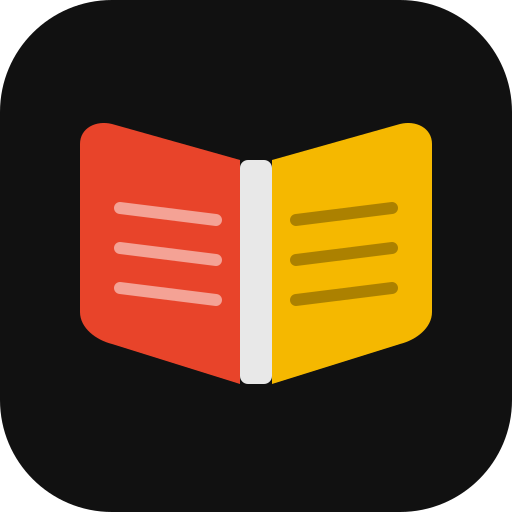
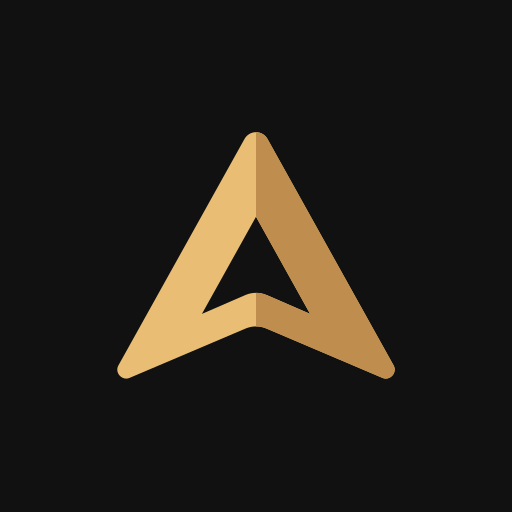
Refresh AfroBooks branding and add iOS installation guidance

diff --git a/app/page.tsx b/app/page.tsx
@@ -3,6 +3,7 @@
 import { useEffect } from 'react';
 import { useRouter } from 'next/navigation';
 import Link from 'next/link';
+import Image from 'next/image';
 import { BookOpen, Feather, Star, Users, Zap, ArrowRight, CheckCircle, Search, Mail, MapPin, Twitter, Instagram, Linkedin, Facebook, Heart } from 'lucide-react';
 import Logo from '@/components/shared/Logo';
 import { useAuthStore } from '@/store/authStore';
@@ -44,12 +45,12 @@ export default function LandingPage() {
             Browse
           </Link>
           <Link href="/login"
-            className="text-sm px-4 py-2 rounded-lg transition-colors"
+            className="text-xs px-2 py-2 rounded-lg transition-colors sm:text-sm sm:px-4"
             style={{ color: '#888' }}>
             Sign In
           </Link>
           <Link href="/signup"
-            className="text-sm px-4 py-2 rounded-lg font-semibold transition-all"
+            className="text-xs px-3 py-2 rounded-lg font-semibold transition-all sm:text-sm sm:px-4"
             style={{ background: '#e8442a', color: '#fff' }}>
             Get Started
           </Link>
@@ -288,75 +289,76 @@ export default function LandingPage() {
       </section>
 
       {/* ── ABOUT & CONTACT ── */}
-      <section id="about" className="px-5 sm:px-10 py-20" style={{ borderTop: '1px solid #1a1a1a' }}>
+      <section id="about" aria-labelledby="about-title" className="scroll-mt-16 px-5 sm:px-10 py-20" style={{ background: '#101110', borderTop: '1px solid #28251f' }}>
         <div className="max-w-5xl mx-auto grid sm:grid-cols-2 gap-12 items-start">
 
           {/* About */}
           <div>
-            <p className="text-xs font-bold uppercase tracking-widest mb-3" style={{ color: '#e8442a' }}>About Us</p>
-            <h2 className="font-display text-3xl text-white mb-5 leading-tight">
+            <div className="flex min-h-8 items-center gap-2.5 mb-3">
+              <Image src="/brand/afrobooks-mark.svg" alt="" width={28} height={28} aria-hidden="true" />
+              <p className="text-xs font-semibold uppercase tracking-[0.16em] text-[#e9bd73]">About Us</p>
+            </div>
+            <h2 id="about-title" className="font-display text-3xl text-[#f5f2eb] mb-5 leading-tight">
               Built for Africa's<br />Literary Future
             </h2>
-            <p className="text-sm leading-relaxed mb-4" style={{ color: '#666' }}>
+            <p className="text-sm leading-relaxed mb-4" style={{ color: '#a8a49c' }}>
               AfroBooks is a digital marketplace dedicated to African storytelling. We believe every African story deserves a global audience — and every African author deserves fair compensation for their craft.
             </p>
-            <p className="text-sm leading-relaxed mb-6" style={{ color: '#555' }}>
+            <p className="text-sm leading-relaxed mb-6" style={{ color: '#96928a' }}>
               Founded with a mission to bridge the gap between Africa's brilliant writers and a world hungry for authentic African narratives, we provide authors with the tools, platform, and audience they need to thrive.
             </p>
-            <div className="flex items-center gap-2 text-sm" style={{ color: '#888' }}>
-              <Heart size={13} style={{ color: '#e8442a' }} />
+            <div className="flex items-center gap-2 text-sm" style={{ color: '#b9ad98' }}>
+              <Heart size={14} strokeWidth={1.75} className="shrink-0 text-[#e9bd73]" aria-hidden="true" />
               Made with love for African literature
             </div>
           </div>
 
           {/* Contact */}
           <div>
-            <p className="text-xs font-bold uppercase tracking-widest mb-3" style={{ color: '#f5b800' }}>Get In Touch</p>
-            <h2 className="font-display text-3xl text-white mb-5">Contact Us</h2>
+            <p className="flex min-h-8 items-center text-xs font-semibold uppercase tracking-[0.16em] mb-3 text-[#e9bd73]">Get In Touch</p>
+            <h2 className="font-display text-3xl text-[#f5f2eb] mb-5">Contact Us</h2>
 
             <div className="space-y-4 mb-8">
               <a
                 href="mailto:esseytesfa@gmail.com"
-                className="flex items-center gap-3 p-4 rounded-xl border transition-all hover:border-[#333] group"
-                style={{ background: '#111', borderColor: '#1a1a1a' }}
+                className="group flex items-center gap-3 p-4 rounded-xl border border-[#2b2821] bg-[#141412] transition-colors hover:border-[#745b37] hover:bg-[#191712] focus-visible:outline-[#e9bd73]"
               >
-                <div className="w-9 h-9 rounded-lg flex items-center justify-center flex-shrink-0" style={{ background: '#1a1a1a' }}>
-                  <Mail size={15} style={{ color: '#e8442a' }} />
+                <div className="w-9 h-9 rounded-lg flex items-center justify-center flex-shrink-0 border border-[#342c20] bg-[#231e16]">
+                  <Mail size={15} strokeWidth={1.75} className="text-[#e9bd73]" aria-hidden="true" />
                 </div>
                 <div>
-                  <p className="text-xs mb-0.5" style={{ color: '#555' }}>General enquiries</p>
-                  <p className="text-sm font-medium group-hover:text-white transition-colors" style={{ color: '#aaa' }}>esseytesfa@gmail.com</p>
+                  <p className="text-xs mb-0.5 text-[#96928a]">General enquiries</p>
+                  <p className="text-sm font-medium text-[#c9c4ba] group-hover:text-[#f5f2eb] transition-colors">esseytesfa@gmail.com</p>
                 </div>
               </a>
 
               <a
                 href="mailto:esseytesfa@gmail.com"
-                className="flex items-center gap-3 p-4 rounded-xl border transition-all hover:border-[#333] group"
-                style={{ background: '#111', borderColor: '#1a1a1a' }}
+                className="group flex items-center gap-3 p-4 rounded-xl border border-[#2b2821] bg-[#141412] transition-colors hover:border-[#745b37] hover:bg-[#191712] focus-visible:outline-[#e9bd73]"
               >
-                <div className="w-9 h-9 rounded-lg flex items-center justify-center flex-shrink-0" style={{ background: '#1a1a1a' }}>
-                  <Feather size={15} style={{ color: '#f5b800' }} />
+                <div className="w-9 h-9 rounded-lg flex items-center justify-center flex-shrink-0 border border-[#342c20] bg-[#231e16]">
+                  <Feather size={15} strokeWidth={1.75} className="text-[#e9bd73]" aria-hidden="true" />
                 </div>
                 <div>
-                  <p className="text-xs mb-0.5" style={{ color: '#555' }}>Author support</p>
-                  <p className="text-sm font-medium group-hover:text-white transition-colors" style={{ color: '#aaa' }}>esseytesfa@gmail.com</p>
+                  <p className="text-xs mb-0.5 text-[#96928a]">Author support</p>
+                  <p className="text-sm font-medium text-[#c9c4ba] group-hover:text-[#f5f2eb] transition-colors">esseytesfa@gmail.com</p>
                 </div>
               </a>
 
-              <div className="flex items-center gap-3 p-4 rounded-xl border" style={{ background: '#111', borderColor: '#1a1a1a' }}>
-                <div className="w-9 h-9 rounded-lg flex items-center justify-center flex-shrink-0" style={{ background: '#1a1a1a' }}>
-                  <MapPin size={15} style={{ color: '#888' }} />
+              <div className="flex items-center gap-3 p-4 rounded-xl border border-[#2b2821] bg-[#141412]">
+                <div className="w-9 h-9 rounded-lg flex items-center justify-center flex-shrink-0 border border-[#342c20] bg-[#231e16]">
+                  <MapPin size={15} strokeWidth={1.75} className="text-[#e9bd73]" aria-hidden="true" />
                 </div>
                 <div>
-                  <p className="text-xs mb-0.5" style={{ color: '#555' }}>Headquarters</p>
-                  <p className="text-sm" style={{ color: '#aaa' }}>United States of America</p>
+                  <p className="text-xs mb-0.5 text-[#96928a]">Headquarters</p>
+                  <p className="text-sm text-[#c9c4ba]">United States of America</p>
                 </div>
               </div>
             </div>
 
             {/* Social links */}
             <div>
-              <p className="text-xs mb-3" style={{ color: '#444' }}>Follow us</p>
+              <p className="text-xs mb-3 text-[#96928a]">Follow us</p>
               <div className="flex items-center gap-3">
                 {[
                   { icon: Facebook, href: 'https://facebook.com/AfroBooks', label: 'Facebook' },
@@ -368,10 +370,9 @@ export default function LandingPage() {
                     target="_blank"
                     rel="noopener noreferrer"
                     aria-label={label}
-                    className="w-9 h-9 rounded-xl flex items-center justify-center border transition-all hover:border-[#444] hover:text-white"
-                    style={{ background: '#111', borderColor: '#1a1a1a', color: '#555' }}
+                    className="w-11 h-11 rounded-xl flex items-center justify-center border border-[#2b2821] bg-[#141412] text-[#b9ad98] transition-colors hover:border-[#745b37] hover:text-[#e9bd73] focus-visible:outline-[#e9bd73]"
                   >
-                    <Icon size={15} />
+                    <Icon size={15} strokeWidth={1.75} aria-hidden="true" />
                   </a>
                 ))}
               </div>

diff --git a/components/shared/InstallPWA.tsx b/components/shared/InstallPWA.tsx
@@ -1,16 +1,36 @@
 'use client';
 
-import { useEffect, useState } from 'react';
-import { Download } from 'lucide-react';
+import { useEffect, useId, useRef, useState, useSyncExternalStore } from 'react';
+import { Download, Share, X } from 'lucide-react';
 
 interface BeforeInstallPromptEvent extends Event {
   prompt(): Promise<void>;
   userChoice: Promise<{ outcome: 'accepted' | 'dismissed' }>;
 }
 
+function subscribeDisplayMode(onChange: () => void) {
+  const standalone = window.matchMedia('(display-mode: standalone)');
+  standalone.addEventListener('change', onChange);
+  return () => standalone.removeEventListener('change', onChange);
+}
+
+function getInstallEnvironment() {
+  if (window.matchMedia('(display-mode: standalone)').matches ||
+      (navigator as Navigator & { standalone?: boolean }).standalone === true) return 'standalone';
+  return /iPad|iPhone|iPod/.test(navigator.userAgent) ||
+    (navigator.platform === 'MacIntel' && navigator.maxTouchPoints > 1) ? 'ios' : 'browser';
+}
+
 export default function InstallPWA() {
   const [prompt, setPrompt] = useState<BeforeInstallPromptEvent | null>(null);
   const [installed, setInstalled] = useState(false);
+  const environment = useSyncExternalStore(subscribeDisplayMode, getInstallEnvironment, () => 'browser');
+  const isIOS = environment === 'ios';
+  const [installing, setInstalling] = useState(false);
+  const guide = useRef<HTMLDialogElement>(null);
+  const guideId = useId();
+  const titleId = useId();
+  const descriptionId = useId();
 
   useEffect(() => {
     const handler = (e: Event) => {
@@ -26,25 +46,77 @@ export default function InstallPWA() {
     };
   }, []);
 
-  if (!prompt || installed) return null;
+  if (installed || environment === 'standalone' || (!isIOS && !prompt)) return null;
 
   async function handleInstall() {
+    if (isIOS) {
+      guide.current?.showModal();
+      return;
+    }
     if (!prompt) return;
-    await prompt.prompt();
-    const { outcome } = await prompt.userChoice;
-    if (outcome === 'accepted') setInstalled(true);
-    setPrompt(null);
+    setInstalling(true);
+    try {
+      await prompt.prompt();
+      const { outcome } = await prompt.userChoice;
+      if (outcome === 'accepted') setInstalled(true);
+    } catch {
+      // The browser can withdraw a previously offered installation prompt.
+    } finally {
+      setPrompt(null);
+      setInstalling(false);
+    }
   }
 
   return (
-    <button
-      type="button"
-      onClick={handleInstall}
-      className="flex items-center gap-1.5 px-3 py-1.5 rounded-lg text-xs font-medium transition-opacity hover:opacity-80"
-      style={{ background: '#1a1a1a', color: '#f5b800', border: '1px solid #333' }}
-    >
-      <Download size={13} />
-      Install App
-    </button>
+    <>
+      <button
+        type="button"
+        onClick={handleInstall}
+        disabled={installing}
+        aria-label="Install AfroBooks"
+        aria-haspopup={isIOS ? 'dialog' : undefined}
+        aria-controls={isIOS ? guideId : undefined}
+        title="Install AfroBooks"
+        className="flex h-11 w-11 shrink-0 items-center justify-center gap-1.5 rounded-xl border border-[#342c20] bg-[#231e16] text-xs font-medium text-[#e9bd73] transition-opacity hover:opacity-80 focus-visible:outline-[#e9bd73] disabled:opacity-50 sm:w-auto sm:px-3"
+      >
+        <Download size={16} aria-hidden="true" />
+        <span className="hidden sm:inline">Install App</span>
+      </button>
+      {isIOS && (
+        <dialog
+          ref={guide}
+          id={guideId}
+          aria-labelledby={titleId}
+          aria-describedby={descriptionId}
+          className="m-auto max-h-[calc(100dvh-2rem)] w-[calc(100%-2rem)] max-w-md overflow-y-auto rounded-2xl border border-[#342c20] bg-[#141412] p-5 text-[#f5f2eb] shadow-2xl backdrop:bg-black/70 sm:p-6"
+          onClick={event => {
+            if (event.target !== event.currentTarget) return;
+            const bounds = event.currentTarget.getBoundingClientRect();
+            if (event.clientX < bounds.left || event.clientX > bounds.right ||
+                event.clientY < bounds.top || event.clientY > bounds.bottom) guide.current?.close();
+          }}
+        >
+          <div className="mb-4 flex items-start justify-between gap-3">
+            <h2 id={titleId} className="pt-2 text-lg font-semibold leading-snug">Add AfroBooks to your Home Screen</h2>
+            <button type="button" onClick={() => guide.current?.close()} aria-label="Close installation instructions"
+              className="flex h-11 w-11 shrink-0 items-center justify-center rounded-xl text-[#a8a49c] hover:bg-white/5 focus-visible:outline-[#e9bd73]">
+              <X size={20} aria-hidden="true" />
+            </button>
+          </div>
+          <p id={descriptionId} className="mb-5 text-sm leading-relaxed text-[#a8a49c]">
+            Open afrobs.com in Safari on your iPhone or iPad, then:
+          </p>
+          <ol className="list-decimal space-y-4 pl-5 text-sm leading-relaxed marker:text-[#e9bd73]">
+            <li className="pl-1">Open the <strong>Share</strong> menu <Share size={16} className="inline-block align-text-bottom text-[#e9bd73]" aria-hidden="true" />. It may be inside Safari&apos;s page menu.</li>
+            <li className="pl-1">Choose <strong>Add to Home Screen</strong>. If it is missing, scroll down to <strong>Edit Actions</strong> to add it.</li>
+            <li className="pl-1">Leave <strong>Open as Web App</strong> on if shown, then tap <strong>Add</strong>.</li>
+          </ol>
+          <button type="button" onClick={() => guide.current?.close()}
+            className="mt-6 min-h-11 w-full rounded-xl bg-[#e9bd73] px-4 py-3 text-sm font-semibold text-[#141412] hover:bg-[#f1cd91] focus-visible:outline-[#f5f2eb]">
+            Got it
+          </button>
+        </dialog>
+      )}
+    </>
   );
 }

diff --git a/public/offline.html b/public/offline.html
@@ -1,18 +1,28 @@
 <!DOCTYPE html>
-<html>
+<html lang="en">
 <head>
-  <title>CampusConnect — Offline</title>
+  <meta charset="utf-8">
+  <title>AfroBooks — Offline</title>
   <meta name="viewport" content="width=device-width, initial-scale=1">
+  <meta name="theme-color" content="#0e0e0e">
   <style>
-    body { font-family: system-ui; display: flex; flex-direction: column; align-items: center; justify-content: center; height: 100vh; margin: 0; background: #F8FAFC; }
-    h1 { color: #2563EB; font-size: 24px; }
-    p { color: #64748B; font-size: 14px; text-align: center; padding: 0 32px; }
-    button { margin-top: 20px; padding: 12px 24px; background: #2563EB; color: white; border: none; border-radius: 10px; font-size: 14px; font-weight: 700; cursor: pointer; }
+    * { box-sizing: border-box; }
+    body { font-family: system-ui, sans-serif; display: grid; place-items: center; min-height: 100dvh; margin: 0; padding: 32px; background: #0e0e0e; color: #f5f2eb; }
+    main { width: 100%; max-width: 360px; text-align: center; }
+    .brand { display: inline-flex; align-items: center; gap: 10px; margin-bottom: 48px; font-size: 28px; font-weight: 600; letter-spacing: -1.5px; }
+    .brand img { width: 44px; height: 44px; }
+    h1 { margin: 0 0 12px; font-size: 22px; font-weight: 500; letter-spacing: -.5px; }
+    p { color: #a8a49c; font-size: 14px; line-height: 1.7; margin: 0; }
+    button { margin-top: 28px; min-height: 44px; padding: 12px 24px; background: #e9bd73; color: #15130f; border: none; border-radius: 10px; font: inherit; font-size: 14px; font-weight: 600; cursor: pointer; }
+    button:focus-visible { outline: 2px solid #f5f2eb; outline-offset: 4px; }
   </style>
 </head>
 <body>
-  <h1>CampusConnect</h1>
-  <p>You are offline. Please check your internet connection and try again.</p>
-  <button onclick="window.location.reload()">Try Again</button>
+  <main>
+    <div class="brand"><img src="/brand/afrobooks-mark.svg" alt="" width="44" height="44"><span>AfroBooks</span></div>
+    <h1>You’re offline</h1>
+    <p>Your next story will be here when you reconnect. Check your internet connection and try again.</p>
+    <button onclick="window.location.reload()">Try again</button>
+  </main>
 </body>
 </html>

diff --git a/components/shared/Logo.tsx b/components/shared/Logo.tsx
@@ -1,23 +1,30 @@
 'use client';
 
 import Link from 'next/link';
+import Image from 'next/image';
 
 interface LogoProps {
   href?: string;
   size?: 'sm' | 'md' | 'lg';
+  compact?: boolean;
 }
 
 const sizes = {
-  sm: 'text-xl',
-  md: 'text-3xl',
-  lg: 'text-4xl',
+  sm: { mark: 'h-8 w-8', wordmark: 'text-[19px]', gap: 'gap-1.5' },
+  md: { mark: 'h-11 w-11', wordmark: 'text-[28px]', gap: 'gap-2' },
+  lg: { mark: 'h-14 w-14', wordmark: 'text-[36px]', gap: 'gap-2.5' },
 };
 
-export default function Logo({ href = '/', size = 'md' }: LogoProps) {
+export default function Logo({ href = '/', size = 'md', compact = false }: LogoProps) {
+  const scale = sizes[size];
   return (
-    <Link href={href} className={`font-display ${sizes[size]} tracking-wider select-none`}>
-      <span className="text-white">AFRO</span>
-      <span style={{ color: '#f5b800' }}>BOOKS</span>
+    <Link
+      href={href}
+      aria-label="AfroBooks"
+      className={`inline-flex min-h-11 shrink-0 select-none items-center justify-center rounded-md align-middle ${scale.gap} transition-opacity hover:opacity-80 ${compact ? 'min-w-11' : ''}`}
+    >
+      <Image src="/brand/afrobooks-mark.svg" alt="" width={64} height={64} className={`${scale.mark} shrink-0`} aria-hidden="true" />
+      {!compact && <span aria-hidden="true" className={`font-body ${scale.wordmark} whitespace-nowrap font-semibold leading-none tracking-[-0.055em] text-[#f5f2eb]`}>AfroBooks</span>}
     </Link>
   );
 }

diff --git a/app/layout.tsx b/app/layout.tsx
@@ -28,13 +28,13 @@ export const metadata: Metadata = {
     siteName: 'AfroBooks',
     title: 'AfroBooks — Africa\'s Boldest Ebook Marketplace',
     description: 'Discover and read ebooks by African authors. Browse thousands of titles across fiction, history, science, and more.',
-    images: [{ url: '/pwa-512x512.png', width: 512, height: 512, alt: 'AfroBooks' }],
+    images: [{ url: '/pwa-512x512.png?v=2', width: 512, height: 512, alt: 'AfroBooks' }],
   },
   twitter: {
     card: 'summary_large_image',
     title: 'AfroBooks — Africa\'s Boldest Ebook Marketplace',
     description: 'Discover and read ebooks by African authors.',
-    images: ['/pwa-512x512.png'],
+    images: ['/pwa-512x512.png?v=2'],
   },
   robots: {
     index: true,
@@ -44,11 +44,11 @@ export const metadata: Metadata = {
   manifest: '/manifest.json',
   icons: {
     icon: [
-      { url: '/favicon.svg', type: 'image/svg+xml' },
-      { url: '/pwa-192x192.png', sizes: '192x192', type: 'image/png' },
+      { url: '/favicon.svg?v=2', type: 'image/svg+xml' },
+      { url: '/pwa-192x192.png?v=2', sizes: '192x192', type: 'image/png' },
     ],
-    apple: '/pwa-192x192.png',
-    shortcut: '/favicon.svg',
+    apple: '/apple-touch-icon.png?v=2',
+    shortcut: '/favicon.svg?v=2',
   },
 };
 

diff --git a/components/buyer/BuyerHeader.tsx b/components/buyer/BuyerHeader.tsx
@@ -49,6 +49,9 @@ export default function BuyerHeader() {
       <div className="mx-auto max-w-5xl px-4 py-3 sm:px-5">
         <div className="flex items-center justify-between gap-3">
           <div className="flex min-w-0 items-center gap-3">
+            <div className="sm:hidden">
+              <Logo href="/browse" size="sm" compact />
+            </div>
             <div className="hidden sm:block">
               <Logo href="/browse" size="sm" />
             </div>
@@ -75,7 +78,7 @@ export default function BuyerHeader() {
             </div>
           </div>
 
-          <div className="flex items-center gap-2 sm:gap-3">
+          <div className="flex shrink-0 items-center gap-2 sm:gap-3">
             {userProfile && canAccessAuthorWorkspace ? (
               <div className="hidden lg:block">
                 <WorkspaceSwitcher
